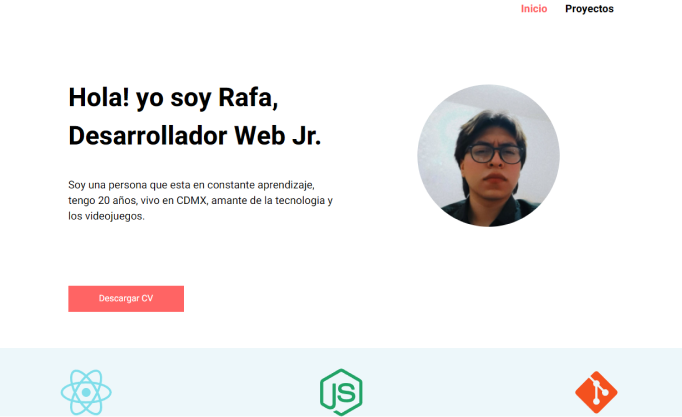
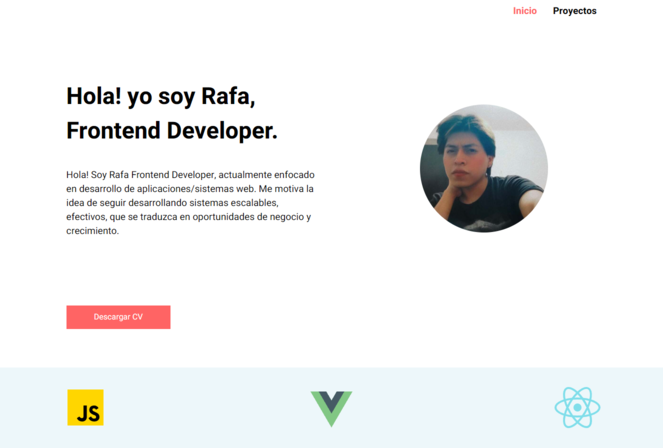
update styles

diff --git a/src/modules/control/layouts/ControlLayout.vue b/src/modules/control/layouts/ControlLayout.vue
@@ -8,6 +8,7 @@
         </template>
       </AsideNav>
 
+      <NoRecords v-if="$router.options.history.location === '/control'" />
       <router-view />
     </div>
 
@@ -80,6 +81,8 @@ import Modal from "../components/Modal";
 import { useModal } from "../composables/useModal";
 import { ref } from "vue";
 import useControl from "../composables/useControl";
+import { useRouter } from "vue-router";
+import NoRecords from "../views/NoRecords";
 
 export default {
   name: "controlLayout",
@@ -88,6 +91,7 @@ export default {
     AsideNav,
     BtnAddSpecimen,
     Modal,
+    NoRecords,
   },
 
   setup() {
@@ -104,6 +108,9 @@ export default {
       birth: "",
       id: "",
     });
+
+    const router = useRouter();
+    console.log(router);
 
     return {
       isOpen,

diff --git a/src/modules/control/router/index.js b/src/modules/control/router/index.js
@@ -3,22 +3,9 @@ export default {
   component: () => import("../layouts/ControlLayout.vue"),
   children: [
     {
-      path: "",
-      name: "noRecords",
-      component: () => import("../views/NoRecords.vue"),
-    },
-    {
       path: ":id",
       name: "records",
       component: () => import("../views/Records.vue"),
-      // children: [
-      //   {
-      //     path: "weight",
-      //     name: "weight",
-      //     component: RecordWeight,
-      //   },
-      // ],
-
       props: route => {
         return {
           id: route.params.id,

diff --git a/src/modules/website/components/Home.vue b/src/modules/website/components/Home.vue
@@ -2,7 +2,7 @@
   <main class="home">
     <div class="home__img__container">
       <img
-        src="../../../assets/img/pic-profile-02.jpg"
+        src="../../../assets/img/profile_rafa_sanchez.jpg"
         alt="rafael sanchez"
         class="home__img"
       />
@@ -41,8 +41,13 @@ export default {};
   align-items: center;
   margin-top: 2.5rem;
 }
+.home__img__container {
+  width: 16rem;
+  height: 16rem;
+}
 .home__img {
   width: 16rem;
+  /* height: 16rem; */
   border-radius: 10rem;
 }
 .home__info {

diff --git a/src/modules/control/views/Records.vue b/src/modules/control/views/Records.vue
@@ -39,6 +39,7 @@ import RecordFood from "../views/RecordFood";
 import RecordSloughing from "../views/RecordSloughing";
 import { computed, ref } from "vue";
 import { useStore } from "vuex";
+import { useRouter } from "vue-router";
 
 export default {
   props: {
@@ -62,6 +63,8 @@ export default {
     const store = useStore();
 
     const typeRecord = ref("food");
+    const router = useRouter();
+    console.log(router);
 
     return {
       specimenInfo: computed(() =>

diff --git a/src/modules/control/components/Header.vue b/src/modules/control/components/Header.vue
@@ -13,7 +13,7 @@ header {
   width: 100%;
 
   height: 3.75rem;
-  background: var(--purple-primary);
+  background: #6b5bbc;
   display: grid;
   place-items: center;
 }
